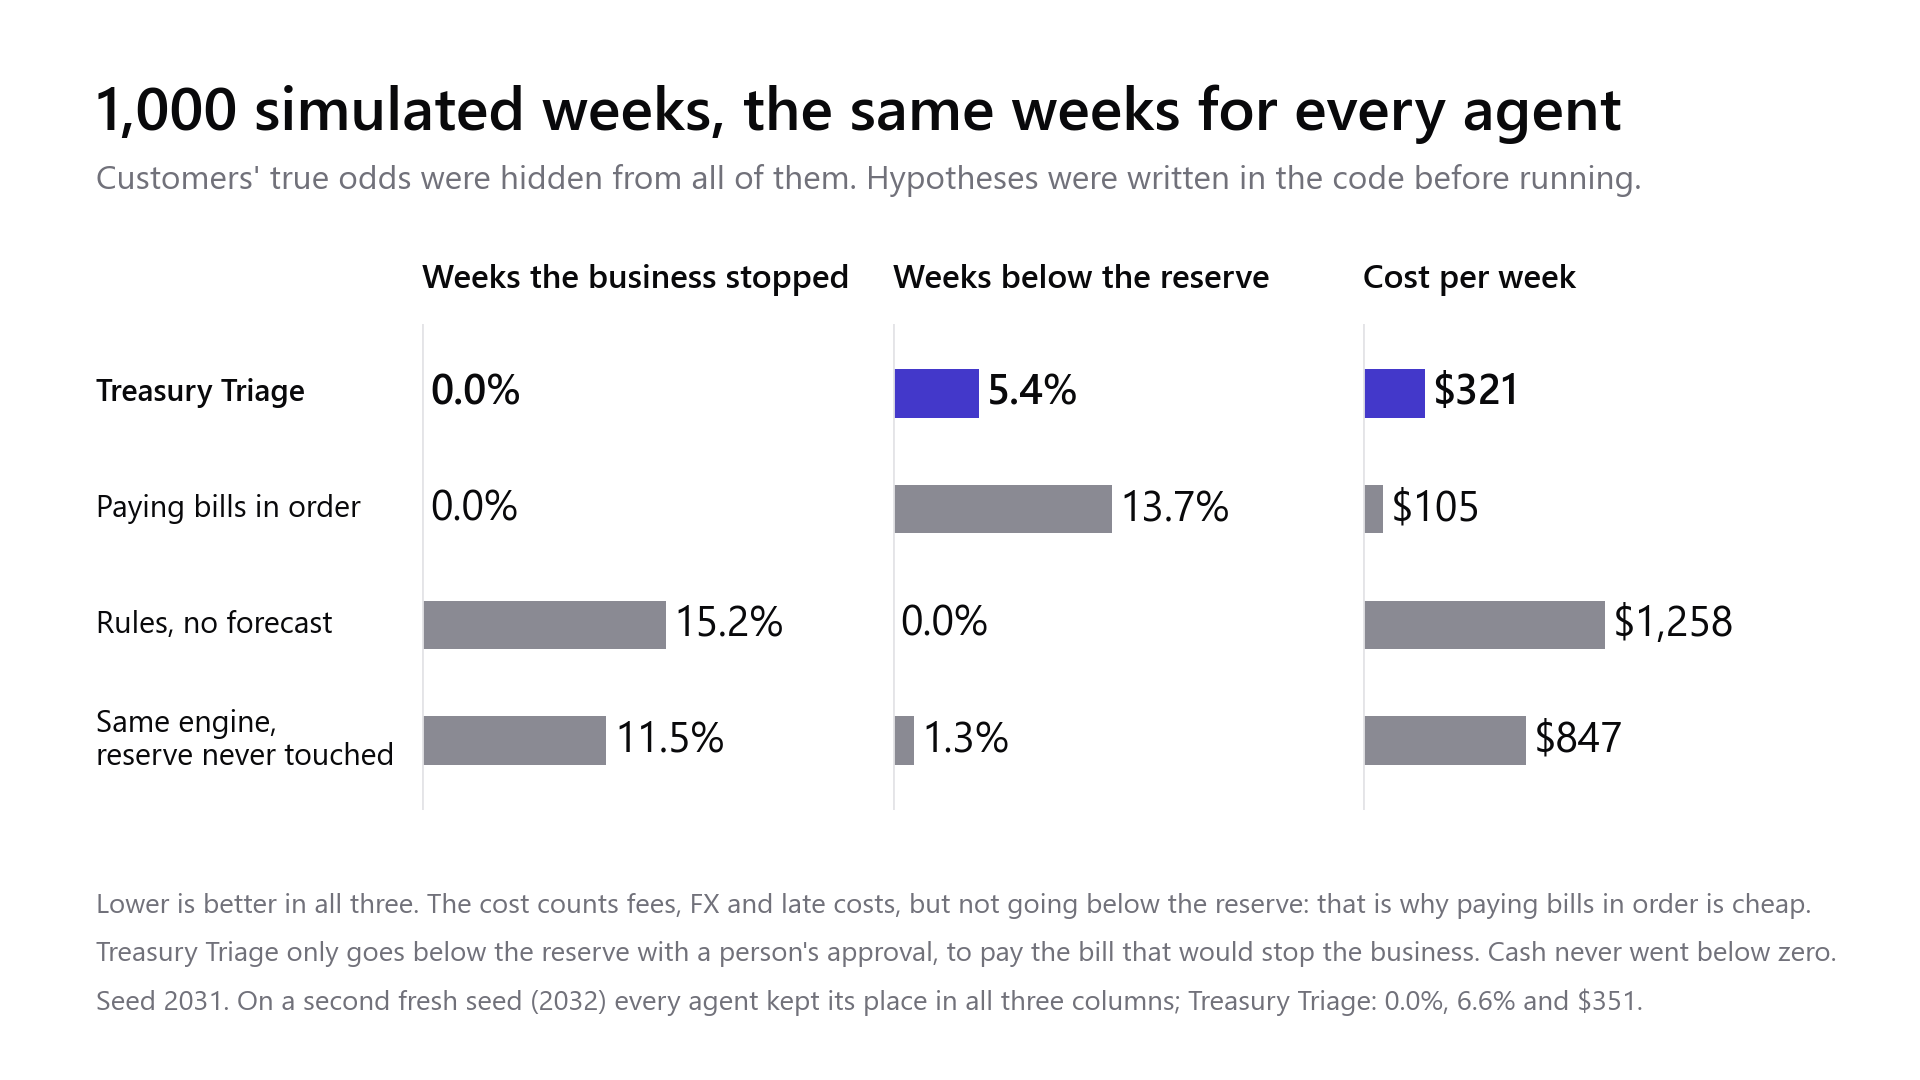
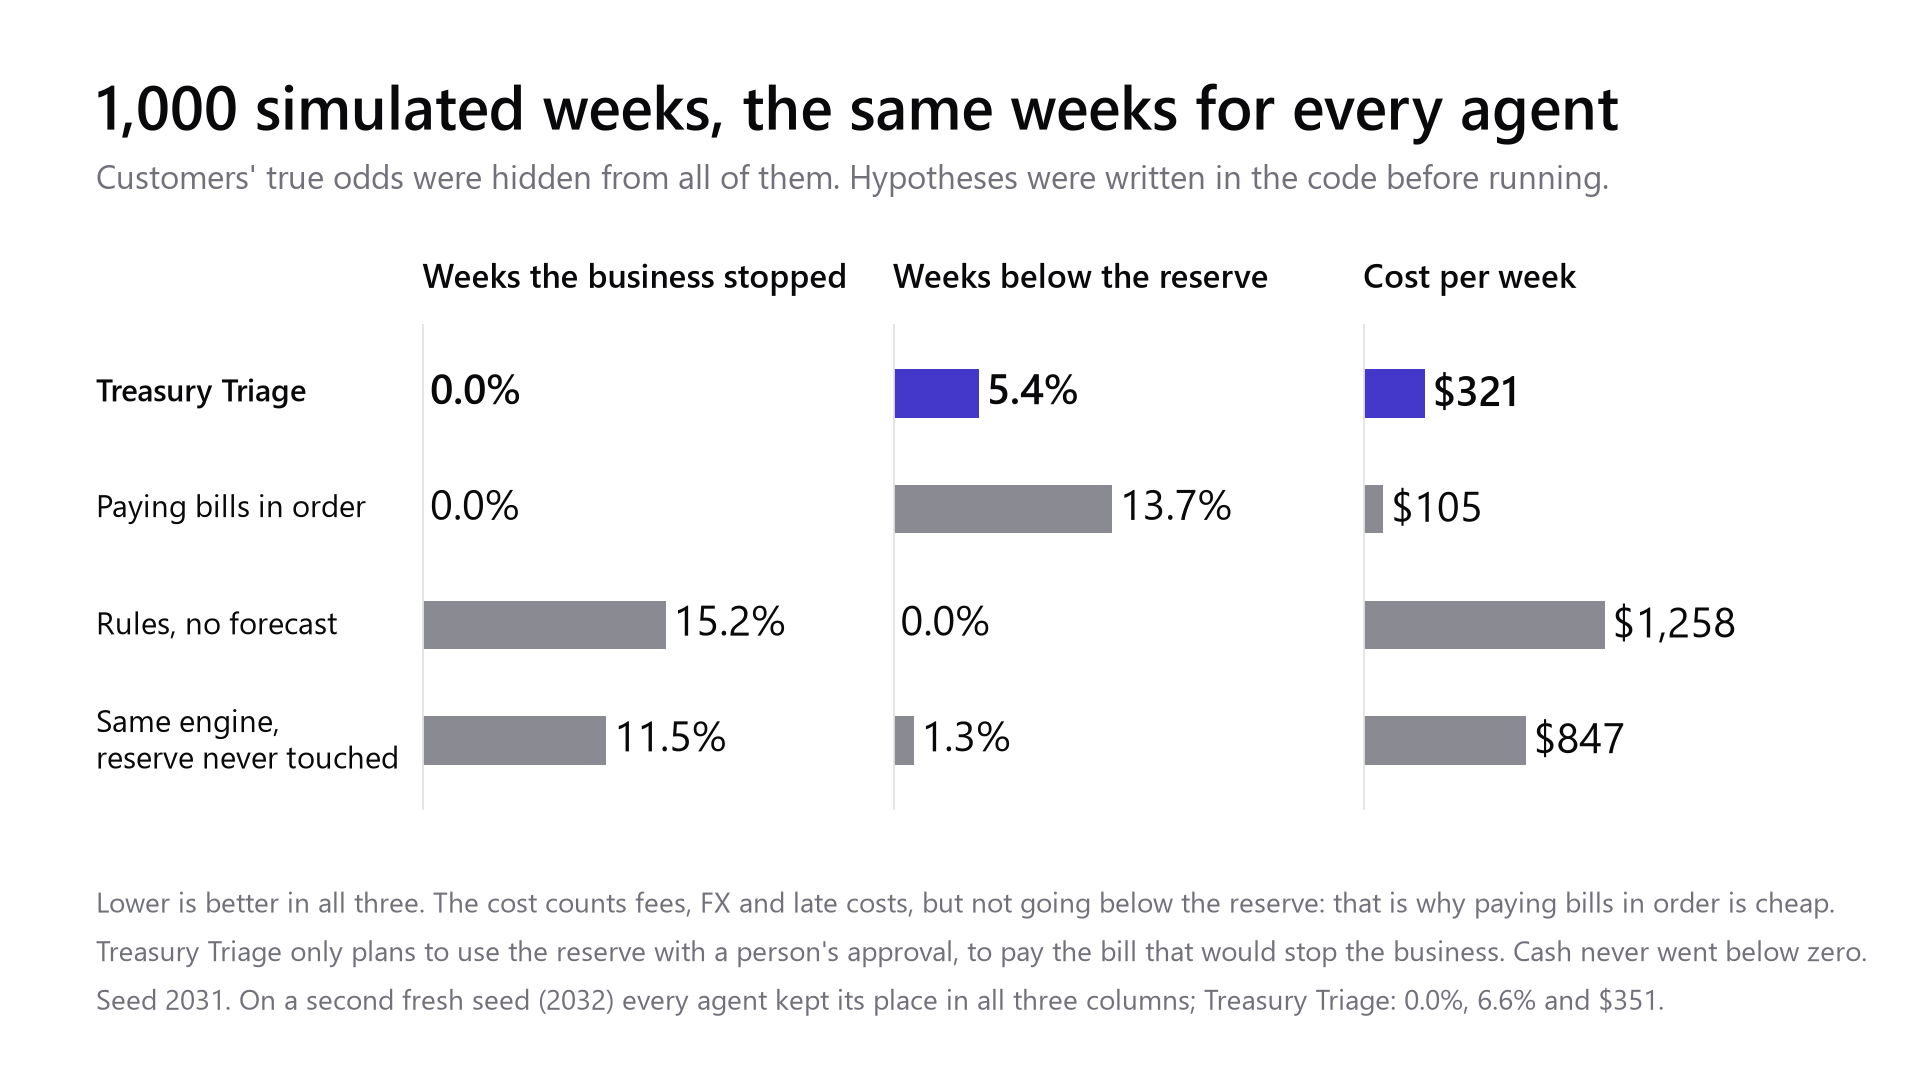
Execution review: the command line works without keys, and the claims say exactly what was measured
- ejecutar_plan.py --leer-correo replays the last real Claude run when there is no Claude key, like the screen
- verificar_auditoria.py checks the latest screen visitor's trail when the main folder is empty, and never says OK with 0 events
- README, Evidence tab and chart: cash went below the reserve in 5-7% of weeks; the agent only plans to use it with a person's approval (85% of the dips), not always
- README: the receipts also list a failed GBP 0.13 sweep; 138 tests; motor_comun/ paths; aprobar.py <code> in the command-line steps

diff --git a/verificar_auditoria.py b/verificar_auditoria.py
@@ -3,7 +3,8 @@
 Cada cambio del libro se apunta también en `data/ledger.audit.jsonl` con la huella (hash) del anterior: si alguien
 cambia, borra o reordena un apunte, o toca el libro a mano, aquí se ve. Los mensajes van en inglés (son del producto).
 
-Uso:  python verificar_auditoria.py             la carpeta de datos de siempre
+Uso:  python verificar_auditoria.py             la carpeta de datos de siempre; en el modo demo, si está vacía,
+                                                la del último visitante de la pantalla
       python verificar_auditoria.py <carpeta>   otra: en el modo demo, la de un visitante (la pantalla dice cuál)
 """
 from pathlib import Path
@@ -13,13 +14,28 @@ from escenario import DATA  # añade motor_comun al path
 from triage_core.ledger import Ledger
 
 
+def carpeta_por_defecto() -> Path:
+    """La de siempre. Si ahí no hay nada y la pantalla ya se usó en el modo demo, la del último visitante."""
+    base = Path(DATA)
+    if Ledger(base / "ledger.json").verify().events:
+        return base
+    visitantes = sorted((base / "visitantes").glob("*"), key=lambda c: c.stat().st_mtime)
+    return visitantes[-1] if visitantes else base
+
+
 def main(argv: list[str] | None = None) -> int:
     argv = sys.argv[1:] if argv is None else argv
-    libro = Ledger((Path(argv[0]) if argv else DATA) / "ledger.json")
+    carpeta = Path(argv[0]) if argv else carpeta_por_defecto()
+    libro = Ledger(carpeta / "ledger.json")
     c = libro.verify()
     if not c.ok:
         print(f"PROBLEM in {libro.audit_path.name}: {c.problem}")
         return 1
+    if not c.events:
+        print(f"Nothing to check yet in {carpeta}: no audit events. Run a round first (on screen, the demo shows "
+              "this command with its own folder)")
+        return 1
+    print(f"Checked {carpeta}")
     print(f"OK: {c.events} events, every hash chains to the one before, and {c.entries_checked} ledger entries "
           f"match their trail" + (f" ({c.before_trail} older entries predate the trail)" if c.before_trail else ""))
     return 0

diff --git a/ejecutar_plan.py b/ejecutar_plan.py
@@ -9,7 +9,8 @@
 Con --leer-correo, antes de decidir, Claude lee las facturas de los proveedores y la bandeja (`agente_ia.py`):
 registra lo que dice cada factura y cada correo de cliente (el código lo comprueba todo; una factura que no
 cuadra con la lista de pagos o con la ficha del proveedor pasa a una persona) y explica el plan. Lo aceptado
-se guarda para toda la ronda. --correo-globex hace lo mismo sin Claude, para ensayar sin clave. Después, la
+se guarda para toda la ronda. Sin clave de Claude, repite su última lectura de verdad (`grabacion_claude.json`),
+como la pantalla. --correo-globex hace lo mismo sin Claude, para ensayar sin clave. Después, la
 cuenta de una factura que no está en ninguna ficha se comprueba en Metal (`demo.comprobar_beneficiarios`).
 
 Con --deposito-globex, antes de ejecutar llega el pago de Globex (depósito simulado de 18.000 $): el motor
@@ -78,7 +79,11 @@ def main() -> int:
         if senales is not None:
             print("This round's emails were already read: using the saved signals")
         else:
-            lectura = leer_correos(rail, libro, args.ronda, globex_pagado, con_claude=args.leer_correo)
+            from agente_ia import SinClave
+            try:
+                lectura = leer_correos(rail, libro, args.ronda, globex_pagado, con_claude=args.leer_correo)
+            except SinClave:  # sin clave de Claude: su última lectura de verdad, como en la pantalla
+                lectura = leer_correos(rail, libro, args.ronda, globex_pagado, con_claude=False, repetir=True)
             print("Inbox:")
             for paso in lectura.pasos:
                 print(f"   {paso}")

diff --git a/panel.py b/panel.py
@@ -537,8 +537,8 @@ with pruebas:
                 "- About \\$940 a week cheaper than a rule-based agent with no forecast, and \\$530-\\$570 cheaper "
                 "than never touching the reserve. Paying bills in order costs less (\\$105-\\$112), but only because "
                 "going below the reserve has no price in this cost\n"
-                "- Cash never went below zero. The reserve was used in 5-7% of weeks, always with a person's approval, "
-                "against 14% when paying bills in order\n"
+                "- Cash never went below zero. It went below the reserve in 5-7% of weeks, against 14% when paying "
+                "bills in order. The agent only plans to use the reserve with a person's approval\n"
                 "- It learns from every payment: the forecast stays within 6 points of what really happened\n"
                 "- A perfect forecast would not do better: the same engine knowing every customer's true odds cost "
                 "the same (\\$322-\\$360 a week against \\$321-\\$351)\n"

diff --git a/agente_ia.py b/agente_ia.py
@@ -161,7 +161,7 @@ def cliente(env_path: Path) -> anthropic.Anthropic:
         return anthropic.Anthropic(api_key=clave)
     if os.environ.get("ANTHROPIC_API_KEY") or os.environ.get("ANTHROPIC_AUTH_TOKEN"):
         return anthropic.Anthropic()
-    raise SinClave("ANTHROPIC_API_KEY is missing in app/.env. To rehearse without Claude, use --correo-globex")
+    raise SinClave("ANTHROPIC_API_KEY is missing in .env. To rehearse without Claude, use --correo-globex")
 
 
 def leer_bandeja(client: anthropic.Anthropic, bandeja: Bandeja) -> str:

diff --git a/README.md b/README.md
@@ -30,7 +30,7 @@ Press the sidebar buttons in order and check what you should see:
 | **4 · Globex pays $18,000** | The agent finds the deposit in Airwallex and matches it to invoice GX-2207. Confidence 75% → 93%. *Only* the SaaS decision changes: defer → pay |
 | **3 · Execute the plan** again | Conversions at the approved quotes, every bill the agent may pay is PAID, **reserve intact** (about $10,300 above the $15,000 floor). Q. Consulting still waits for a person |
 
-**Proof it ran on the real sandbox:** [`evidencia/recibo_r20261029-011728.md`](evidencia/recibo_r20261029-011728.md) (29 Oct) and [`evidencia/recibo_r20261106-204646.md`](evidencia/recibo_r20261106-204646.md) (6 Nov, the round recorded for the demo video) list every conversion, transfer and deposit of a real demo round with its Airwallex id, re-queried from Airwallex (all PAID or SETTLED), Globex's deposit matched to its invoice, and the audit trail verified.
+**Proof it ran on the real sandbox:** [`evidencia/recibo_r20261029-011728.md`](evidencia/recibo_r20261029-011728.md) (29 Oct) and [`evidencia/recibo_r20261106-204646.md`](evidencia/recibo_r20261106-204646.md) (6 Nov, the round recorded for the demo video) list every conversion, transfer and deposit of a real demo round with its Airwallex id. Re-queried from Airwallex, every conversion and transfer is PAID or SETTLED (a failed £0.13 opening sweep is listed too), Globex's deposit is matched to its invoice, and the audit trail is verified.
 
 ## What it does
 
@@ -124,14 +124,14 @@ The same synthetic weeks were run with six agents:
 
 Customers' true on-time odds were hidden from all of them, and the hypotheses were written in the code before running (`simulacion.py`).
 
-**The agent learns from every payment.** Each payment joins its customer's history four weeks later, once even the late ones have arrived. Every 20 weeks a self-check compares what the agent believed with what happened, and corrects the base forecast and how much an email is worth. It is a penalized logistic regression (`triage_core/collections_calibration.py`), shared with Receivables Copilot.
+**The agent learns from every payment.** Each payment joins its customer's history four weeks later, once even the late ones have arrived. Every 20 weeks a self-check compares what the agent believed with what happened, and corrects the base forecast and how much an email is worth. It is a penalized logistic regression (`motor_comun/triage_core/collections_calibration.py`), shared with Receivables Copilot.
 
 ![Weeks the business stopped, weeks below the reserve and cost per week: Treasury Triage and the same three simpler agents in every column](resultados/resumen_1000_semanas.png)
 
 On the latest two fresh seeds (2031 and 2032):
 - **The business never stopped.** The same engine that never touches the reserve stopped it in 12-13% of weeks.
 - **About $940 a week cheaper** than the no-forecast agent, and **$530-$570 cheaper** than never touching the reserve. Paying in order costs less ($105-$112), but only because going below the reserve has no price in this cost.
-- **Cash never went below zero.** The reserve was used in 5-7% of weeks, always with a person's approval, against 14% when paying in order. The agent knows that risk: it predicted 5.0-6.2% and it happened in 5.4-6.6% of weeks.
+- **Cash never went below zero.** It went below the reserve in 5-7% of weeks, against 14% when paying in order. The agent only plans to use the reserve with a person's approval, to pay the bill that would stop the business; the other dips (15% of them) were unplanned, within the risk the plan accepts. The agent knows that risk: it predicted 5.0-6.2% and it happened in 5.4-6.6% of weeks.
 - **The forecast stays within 6 points** of what really happened in every bucket (on the seeds that tested learning: it was 11 points off without learning, and it closes 56-80% of the gap to a forecast that knew the hidden truth).
 - With "worse than usual" approvals, it **asks a person for FX in 1 week in 4 or 5**, and those weeks really are riskier: 63-74% have a late payment, against 47-48% of the others.
 
@@ -195,9 +195,9 @@ In the sidebar:
 5. **Globex pays $18,000.**
 6. **Execute the plan** again.
 
-The same steps exist on the command line: `reiniciar_demo.py`, `ejecutar_plan.py --leer-correo`, `aprobar.py`, `ejecutar_plan.py --deposito-globex`.
+The same steps exist on the command line: `reiniciar_demo.py`; `ejecutar_plan.py --leer-correo` (without a Claude key it replays the last real Claude run, like the screen); `aprobar.py` to list the cards and `aprobar.py <code>` to approve each one; then `ejecutar_plan.py --deposito-globex`.
 
-Tests (offline, no keys): `python -m pytest tests motor_comun/tests` (the app and the shared engine, 137 tests). The engine lives in `motor_comun/`.
+Tests (offline, no keys): `python -m pytest tests motor_comun/tests` (the app and the shared engine, 138 tests). The engine lives in `motor_comun/`.
 
 ## Things the sandbox taught us
 
@@ -223,7 +223,7 @@ Tests (offline, no keys): `python -m pytest tests motor_comun/tests` (the app an
 
 ## Shared engine
 
-The forecasting, approval, ledger and signal-checking engine (`triage_core/`) is also used by a separate product, Receivables Copilot (PayPal invoices). The products, decisions and integrations are different.
+The forecasting, approval, ledger and signal-checking engine (`motor_comun/triage_core/`) is also used by a separate product, Receivables Copilot (PayPal invoices). The products, decisions and integrations are different.
 
 ## License
 
